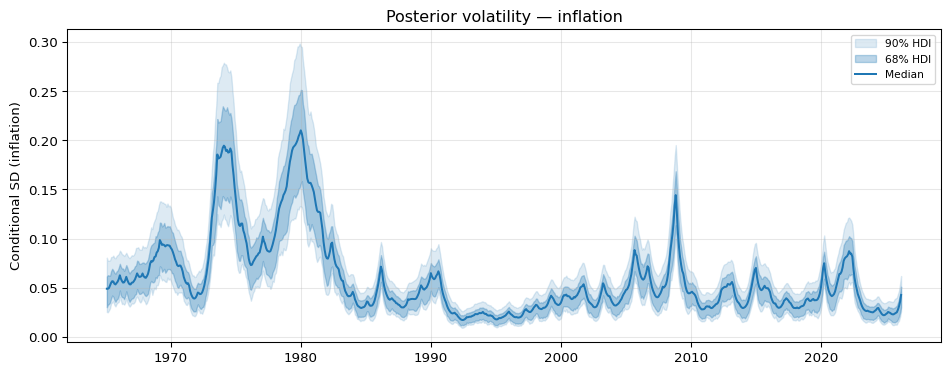
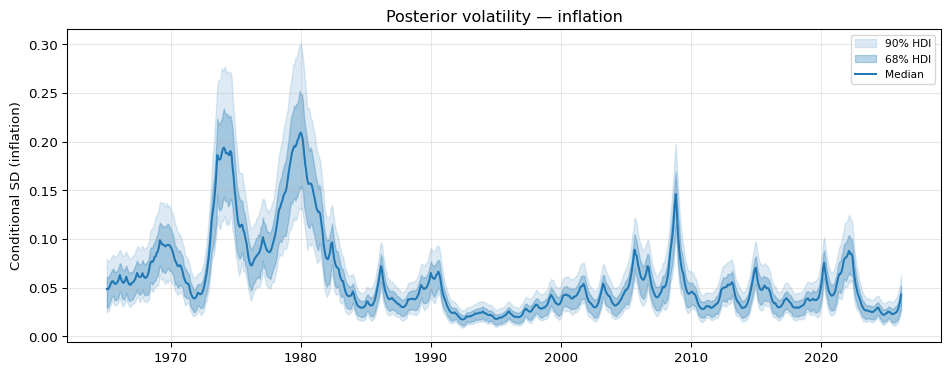
Remove CI figures

diff --git a/docs/tutorials/monetary-policy.md b/docs/tutorials/monetary-policy.md
@@ -191,21 +191,21 @@ az.summary(fitted.idata, var_names=["intercept"], kind="diagnostics")
 
 <div class="nutpie">
     <p><strong>Sampler Progress</strong></p>
-    <p>Total Chains: <span id="total-chains">1</span></p>
+    <p>Total Chains: <span id="total-chains">8</span></p>
     <p>Active Chains: <span id="active-chains">0</span></p>
     <p>
         Finished Chains:
-        <span id="active-chains">1</span>
+        <span id="active-chains">8</span>
     </p>
-    <p>Sampling for now</p>
+    <p>Sampling for 3 minutes</p>
     <p>
         Estimated Time to Completion:
         <span id="eta">now</span>
     </p>
 &#10;    <progress
         id="total-progress-bar"
-        max="60"
-        value="60">
+        max="36000"
+        value="36000">
     </progress>
     <table>
         <thead>
@@ -221,14 +221,98 @@ az.summary(fitted.idata, var_names=["intercept"], kind="diagnostics")
             &#10;                <tr>
                     <td class="progress-cell">
                         <progress
-                            max="60"
-                            value="60">
+                            max="4500"
+                            value="4500">
                         </progress>
                     </td>
-                    <td>60</td>
+                    <td>4500</td>
                     <td>0</td>
-                    <td>0.31</td>
-                    <td>31</td>
+                    <td>0.01</td>
+                    <td>1023</td>
+                </tr>
+            &#10;                <tr>
+                    <td class="progress-cell">
+                        <progress
+                            max="4500"
+                            value="4500">
+                        </progress>
+                    </td>
+                    <td>4500</td>
+                    <td>0</td>
+                    <td>0.01</td>
+                    <td>1023</td>
+                </tr>
+            &#10;                <tr>
+                    <td class="progress-cell">
+                        <progress
+                            max="4500"
+                            value="4500">
+                        </progress>
+                    </td>
+                    <td>4500</td>
+                    <td>0</td>
+                    <td>0.01</td>
+                    <td>1023</td>
+                </tr>
+            &#10;                <tr>
+                    <td class="progress-cell">
+                        <progress
+                            max="4500"
+                            value="4500">
+                        </progress>
+                    </td>
+                    <td>4500</td>
+                    <td>0</td>
+                    <td>0.01</td>
+                    <td>1023</td>
+                </tr>
+            &#10;                <tr>
+                    <td class="progress-cell">
+                        <progress
+                            max="4500"
+                            value="4500">
+                        </progress>
+                    </td>
+                    <td>4500</td>
+                    <td>0</td>
+                    <td>0.01</td>
+                    <td>1023</td>
+                </tr>
+            &#10;                <tr>
+                    <td class="progress-cell">
+                        <progress
+                            max="4500"
+                            value="4500">
+                        </progress>
+                    </td>
+                    <td>4500</td>
+                    <td>0</td>
+                    <td>0.01</td>
+                    <td>1023</td>
+                </tr>
+            &#10;                <tr>
+                    <td class="progress-cell">
+                        <progress
+                            max="4500"
+                            value="4500">
+                        </progress>
+                    </td>
+                    <td>4500</td>
+                    <td>0</td>
+                    <td>0.01</td>
+                    <td>1023</td>
+                </tr>
+            &#10;                <tr>
+                    <td class="progress-cell">
+                        <progress
+                            max="4500"
+                            value="4500">
+                        </progress>
+                    </td>
+                    <td>4500</td>
+                    <td>0</td>
+                    <td>0.01</td>
+                    <td>1023</td>
                 </tr>
             &#10;            </tr>
         </tbody>
@@ -237,9 +321,9 @@ az.summary(fitted.idata, var_names=["intercept"], kind="diagnostics")
 
 |                | mcse_mean | mcse_sd | ess_bulk | ess_tail | r_hat |
 |----------------|-----------|---------|----------|----------|-------|
-| intercept\[0\] | 0.002     | 0.001   | 9.0      | 10.0     | NaN   |
-| intercept\[1\] | 0.012     | 0.006   | 6.0      | 10.0     | NaN   |
-| intercept\[2\] | 0.017     | 0.015   | 10.0     | 10.0     | NaN   |
+| intercept\[0\] | 0.008     | 0.005   | 4909.0   | 7214.0   | 1.00  |
+| intercept\[1\] | 0.004     | 0.002   | 2981.0   | 5753.0   | 1.01  |
+| intercept\[2\] | 0.009     | 0.005   | 3626.0   | 6619.0   | 1.00  |
 
 The sampler has converged well: no divergences, R-hat close to 1, and effective sample sizes comfortably above 1000.
 
@@ -284,7 +368,7 @@ fig.suptitle("Cholesky IRFs -- Ordering A: Output, Prices, Rate", y=1.02)
 
     Text(0.5, 1.02, 'Cholesky IRFs -- Ordering A: Output, Prices, Rate')
 
-![](monetary-policy_files/figure-commonmark/cell-8-output-2.png)
+![](monetary-policy_files/figure-commonmark/cell-7-output-2.png)
 
 The 3x3 grid above shows every shock-response pair. The panel of figures may be read as “column shock causes row response.” Focussing on the third column, the rate shock, we note that because output and CPI enter as $100 \times \log$, a one-unit change in those series is approximately a one-percentage-point change.
 
@@ -364,7 +448,7 @@ fig.tight_layout()
 
 </details>
 
-![](monetary-policy_files/figure-commonmark/cell-10-output-1.png)
+![](monetary-policy_files/figure-commonmark/cell-9-output-1.png)
 
 Let’s breakdown the different interpretations that can be drawn from the three orderings. Overall, orderings A and B produce *identical* impulse responses. This is not a coincidence. In both orderings, the federal funds rate sits in position 3 (last), so the monetary policy shock is the third column of the lower-triangular $B_0$, which depends only on the Cholesky factor’s third column. Swapping output and prices in positions 1 and 2 changes the output shock and the price shock, but leaves the monetary policy shock untouched. This is a useful structural insight: ordering sensitivity for a given shock depends on *where that shock’s variable sits in the ordering*, not on the full permutation. The monetary policy shock only changes when the rate moves to a different position, as in ordering C.
 
@@ -414,7 +498,7 @@ print(
 )
 ```
 
-    Acceptance rate: 50.0%
+    Acceptance rate: 100.0%
 
 <details class="code-fold">
 <summary>Code</summary>
@@ -461,7 +545,7 @@ fig.tight_layout()
 
 </details>
 
-![](monetary-policy_files/figure-commonmark/cell-12-output-1.png)
+![](monetary-policy_files/figure-commonmark/cell-11-output-1.png)
 
 The three panels above show how each variable responds to the identified monetary policy shock under sign restrictions with $h = 6$.
 
@@ -500,8 +584,8 @@ for h in [0, 6, 12]:
 ```
 
     h= 0: acceptance rate = 100.0%
-    h= 6: acceptance rate = 50.0%
-    h=12: acceptance rate = 0.0%
+    h= 6: acceptance rate = 100.0%
+    h=12: acceptance rate = 100.0%
 
 <details class="code-fold">
 <summary>Code</summary>
@@ -530,7 +614,7 @@ fig.tight_layout()
 
 </details>
 
-![](monetary-policy_files/figure-commonmark/cell-14-output-1.png)
+![](monetary-policy_files/figure-commonmark/cell-13-output-1.png)
 
 The three restriction horizons produce median responses that are qualitatively similar but quantitatively different.
 
@@ -635,7 +719,7 @@ fig.tight_layout()
 
 </details>
 
-![](monetary-policy_files/figure-commonmark/cell-15-output-1.png)
+![](monetary-policy_files/figure-commonmark/cell-14-output-1.png)
 
 <details class="code-fold">
 <summary>Code</summary>
@@ -665,9 +749,9 @@ pd.DataFrame(band_rows)
 
 |  | Horizon (months) | Cholesky 68% width | Sign Restr. 68% width | Ratio (SR / Chol) |
 |----|----|----|----|----|
-| 0 | 12 | 253.750 | 447.612 | 1.8x |
-| 1 | 24 | 566375.417 | 2742584.988 | 4.8x |
-| 2 | 48 | 1299282692435.848 | 1848195671362.945 | 1.4x |
+| 0 | 12 | 0.163 | 1.026 | 6.3x |
+| 1 | 24 | 0.234 | 0.809 | 3.5x |
+| 2 | 48 | 0.304 | 0.532 | 1.7x |
 
 The table above makes the precision-versus-honesty tradeoff concrete. At every horizon, the sign restriction credible band for the output response is substantially wider than the Cholesky band. This additional width is not noise or computational imprecision. It is identification uncertainty: the range of structural models that are all consistent with the data and the sign restrictions. The Cholesky bands are narrower because the three zero restrictions eliminate all but one decomposition per posterior draw. Whether that precision reflects genuine knowledge or false confidence depends entirely on whether the zero restrictions are correct.
 

diff --git a/docs/tutorials/stochastic-volatility.md b/docs/tutorials/stochastic-volatility.md
@@ -16,7 +16,7 @@ import numpy as np
 import pandas as pd
 
 from impulso.samplers import NUTSSampler
-from impulso.sv import SVData, StochasticVolatility
+from impulso.sv import AR1, SVData, StochasticVolatility
 ```
 
 ## Data
@@ -106,6 +106,28 @@ $$h_t = h_{t-1} + \sigma_\eta\, \eta_t, \qquad \eta_t \sim N(0, 1).$$
  Here $\mu$ is the unconditional mean of the series, $h_t$ is the log of the conditional variance at date $t$, and $\sigma_\eta$ controls how fast log-volatility can move from one period to the next. The conditional standard deviation at $t$ is $\exp(h_t / 2)$, so a one-unit increase in $h_t$ multiplies the conditional SD by $e^{1/2} \approx 1.65$.
 
 Modelling log-volatility rather than the variance or the SD directly has two practical advantages. First, $\exp(h_t)$ is strictly positive for any real-valued $h_t$, so the parameterisation cannot wander into infeasible regions. Second, movements in $h_t$ are symmetric: a change of $+0.5$ and a change of $-0.5$ correspond to multiplicative moves of the same magnitude in the SD, which makes the random-walk innovation assumption more plausible.
+
+### State-space structure and what it implies
+
+The two equations define a **linear Gaussian state-space system** in which the latent state controls the observation *variance* rather than the *mean*. Conditional on the full path $h_{1:T}$ the likelihood factorises,
+
+$$p(y_{1:T} \mid h_{1:T}, \mu) \;=\; \prod_{t=1}^{T} N\!\left(y_t;\, \mu,\, \exp(h_t)\right),$$
+
+ and each factor is cheap. The likelihood of the parameters $(\mu, \sigma_\eta)$ *alone* requires integrating the latent path out,
+
+$$p(y_{1:T} \mid \mu, \sigma_\eta) \;=\; \int p(y_{1:T} \mid h_{1:T}, \mu)\, p(h_{1:T} \mid \sigma_\eta)\, dh_{1:T}.$$
+
+ This $T$-dimensional integral has no closed form, which is why SV models are fit with MCMC or particle methods rather than direct maximum likelihood. MCMC sidesteps the integral by sampling the joint posterior $p(\mu, \sigma_\eta, h_{1:T} \mid y_{1:T})$ and reading off any marginal we need from the draws.
+
+Marginally over $h_t$, the observation is a **scale mixture of normals**: $y_t = \mu + \exp(h_t / 2)\,\varepsilon_t$ with $\varepsilon_t \sim N(0, 1)$ independent of $h_t$. Three consequences follow that a fixed-variance model cannot reproduce. The marginal distribution of $y_t$ has heavier tails than a Gaussian. Squared residuals $(y_t - \mu)^2$ are positively autocorrelated — volatility clustering. And a realised large $|y_t|$ is evidence of a large $h_t$, which raises the posterior probability that $|y_{t+1}|$ is also large. These are exactly the stylised facts that motivate the model for macro and financial series.
+
+It is worth contrasting this setup with the GARCH family, which targets the same stylised facts by a different route. In GARCH, the conditional variance is a deterministic function of past observations, $h_t = \omega + \alpha\,(y_{t-1} - \mu)^2 + \beta\,h_{t-1}$, so given $(y_{1:t-1}, \omega, \alpha, \beta)$ the variance at $t$ is a known number and the likelihood factorises without an integral. The SV variance has its *own* innovation $\eta_t$ that is not observed, which makes it a random variable even after conditioning on the full history. That extra source of randomness is what lets SV allow volatility surprises — moments when the conditional variance jumps in a way not foreseeable from past squared returns — and it is also the reason the SV likelihood is intractable in closed form.
+
+The random-walk specification for $h_t$ is non-stationary. Conditional on $h_0$,
+
+$$h_t \mid h_0, \sigma_\eta \;\sim\; N\!\left(h_0,\, t\,\sigma_\eta^2\right),$$
+
+ so the unconditional variance of log-volatility grows linearly in $t$. That is the appropriate prior when there is no reason to anchor volatility to a particular level and we want the data to decide how far it drifts. The AR(1) variant introduced later replaces this with a mean-reverting state equation and restores stationarity.
 
 !!! note "NUTS on the SV likelihood"
 
@@ -223,7 +245,7 @@ fitted = StochasticVolatility(dynamics="random_walk").fit(data, sampler=sampler)
         Finished Chains:
         <span id="active-chains">4</span>
     </p>
-    <p>Sampling for 19 seconds</p>
+    <p>Sampling for 25 seconds</p>
     <p>
         Estimated Time to Completion:
         <span id="eta">now</span>
@@ -366,6 +388,8 @@ fig.tight_layout()
 
 Both estimators agree on the overall shape: high in the 1970s and early 1980s, low from the mid-1980s onward. The SV posterior is visibly smoother and avoids the sharp step changes the rolling estimator produces when a single unusual month enters or leaves the window. The posterior also pools information across the full sample through the random-walk prior on $h_t$, whereas the rolling SD uses only the most recent 12 observations.
 
+The gap between the two estimators is most striking in the 1970s and early 1980s, and it almost vanishes in 2008 and 2020. That asymmetry is not about volatility at all — it is about how each estimator treats the *mean*. The rolling SD subtracts a *local* 12-month average before squaring, so slow drift in the level of inflation is absorbed into the mean and never shows up as variance. The SV model has a single *global* $\mu$, so every observation is residualised against one constant over the whole sample. When inflation ran at roughly 1% a month for years at a stretch, those deviations from the full-sample mean were enormous, and $\exp(h_t/2)$ had to stretch to accommodate them. The spikes in 2008 and 2020 were short and the level around them was close to the long-run mean, so a local window and a global constant see almost the same residuals and the two lines coincide.
+
 ## AR(1) dynamics for log-volatility
 
 The random-walk specification places no anchor on the level of log-volatility: if $\sigma_\eta$ is small the path drifts slowly, if it is large the path wanders. An AR(1) alternative adds explicit mean reversion,
@@ -373,6 +397,8 @@ The random-walk specification places no anchor on the level of log-volatility: i
 $$h_t = \alpha + \phi\,(h_{t-1} - \alpha) + \sigma_\eta\, \eta_t,$$
 
  with $|\phi| < 1$. This lets the data speak to whether log-volatility tends to return to a long-run level $\alpha$ and, if so, how fast. A persistence parameter $\phi$ posterior concentrated near 1 is consistent with the random-walk approximation being adequate; values meaningfully below 1 indicate stronger mean reversion than a pure random walk allows.
+
+Instead of the `"ar1"` shorthand used above, we pass an explicit `AR1()` dynamics object. Both forms are equivalent; the object form is the extension point if you want to add a new dynamics (e.g. SVt or SV with leverage) without editing the library — implement the `SVDynamics` protocol and pass an instance here.
 
 ``` python
 if ci:
@@ -387,7 +413,7 @@ else:
         random_seed=321,
     )
 
-fitted_ar1 = StochasticVolatility(dynamics="ar1").fit(data, sampler=sampler_ar1)
+fitted_ar1 = StochasticVolatility(dynamics=AR1()).fit(data, sampler=sampler_ar1)
 fig_ar1 = fitted_ar1.volatility().plot()
 fig_ar1.tight_layout()
 ```
@@ -512,7 +538,7 @@ fig_ar1.tight_layout()
                     </td>
                     <td>4500</td>
                     <td>0</td>
-                    <td>0.08</td>
+                    <td>0.09</td>
                     <td>127</td>
                 </tr>
             &#10;                <tr>
@@ -524,8 +550,8 @@ fig_ar1.tight_layout()
                     </td>
                     <td>4500</td>
                     <td>0</td>
-                    <td>0.10</td>
-                    <td>255</td>
+                    <td>0.09</td>
+                    <td>127</td>
                 </tr>
             &#10;                <tr>
                     <td class="progress-cell">
@@ -536,7 +562,7 @@ fig_ar1.tight_layout()
                     </td>
                     <td>4500</td>
                     <td>0</td>
-                    <td>0.10</td>
+                    <td>0.08</td>
                     <td>127</td>
                 </tr>
             &#10;                <tr>

diff --git a/docs/tutorials/structural-analysis.md b/docs/tutorials/structural-analysis.md
@@ -252,7 +252,7 @@ fitted
         Finished Chains:
         <span id="active-chains">4</span>
     </p>
-    <p>Sampling for 12 seconds</p>
+    <p>Sampling for 15 seconds</p>
     <p>
         Estimated Time to Completion:
         <span id="eta">now</span>
